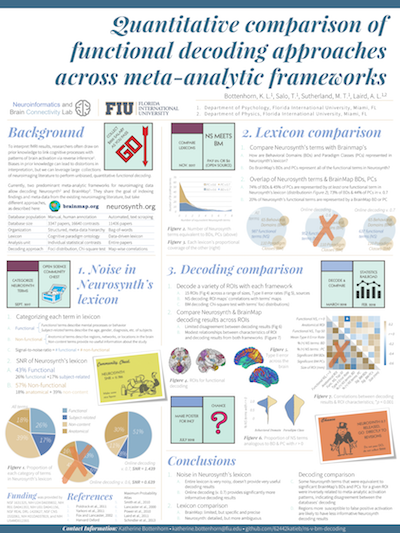
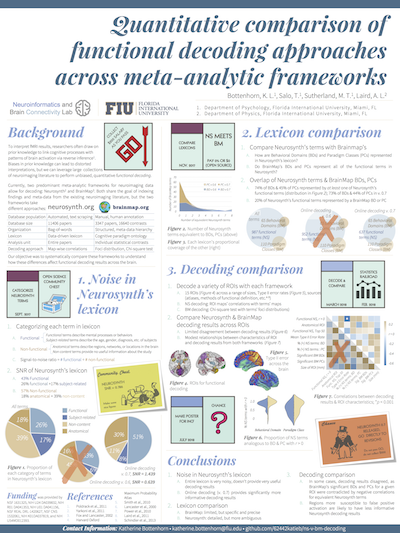
Add Katie's updated poster.

diff --git a/posters/_posts/2018-08-09-bottenhorn-decoding-poster.md b/posters/_posts/2018-08-09-bottenhorn-decoding-poster.md
@@ -10,16 +10,16 @@ projects: []
 tags: []
 
 # Content
-pdf:
+pdf: https://osf.io/xhzpf/
 
 # Links
 doi:
 
 # Data and code
-github:
+github: ["https://github.com/62442katieb/ns-v-bm-decoding"]
 neurovault:
 openneuro:
-osf:
+osf: https://osf.io/q42be/
 ---
 {% include JB/setup %}
 
